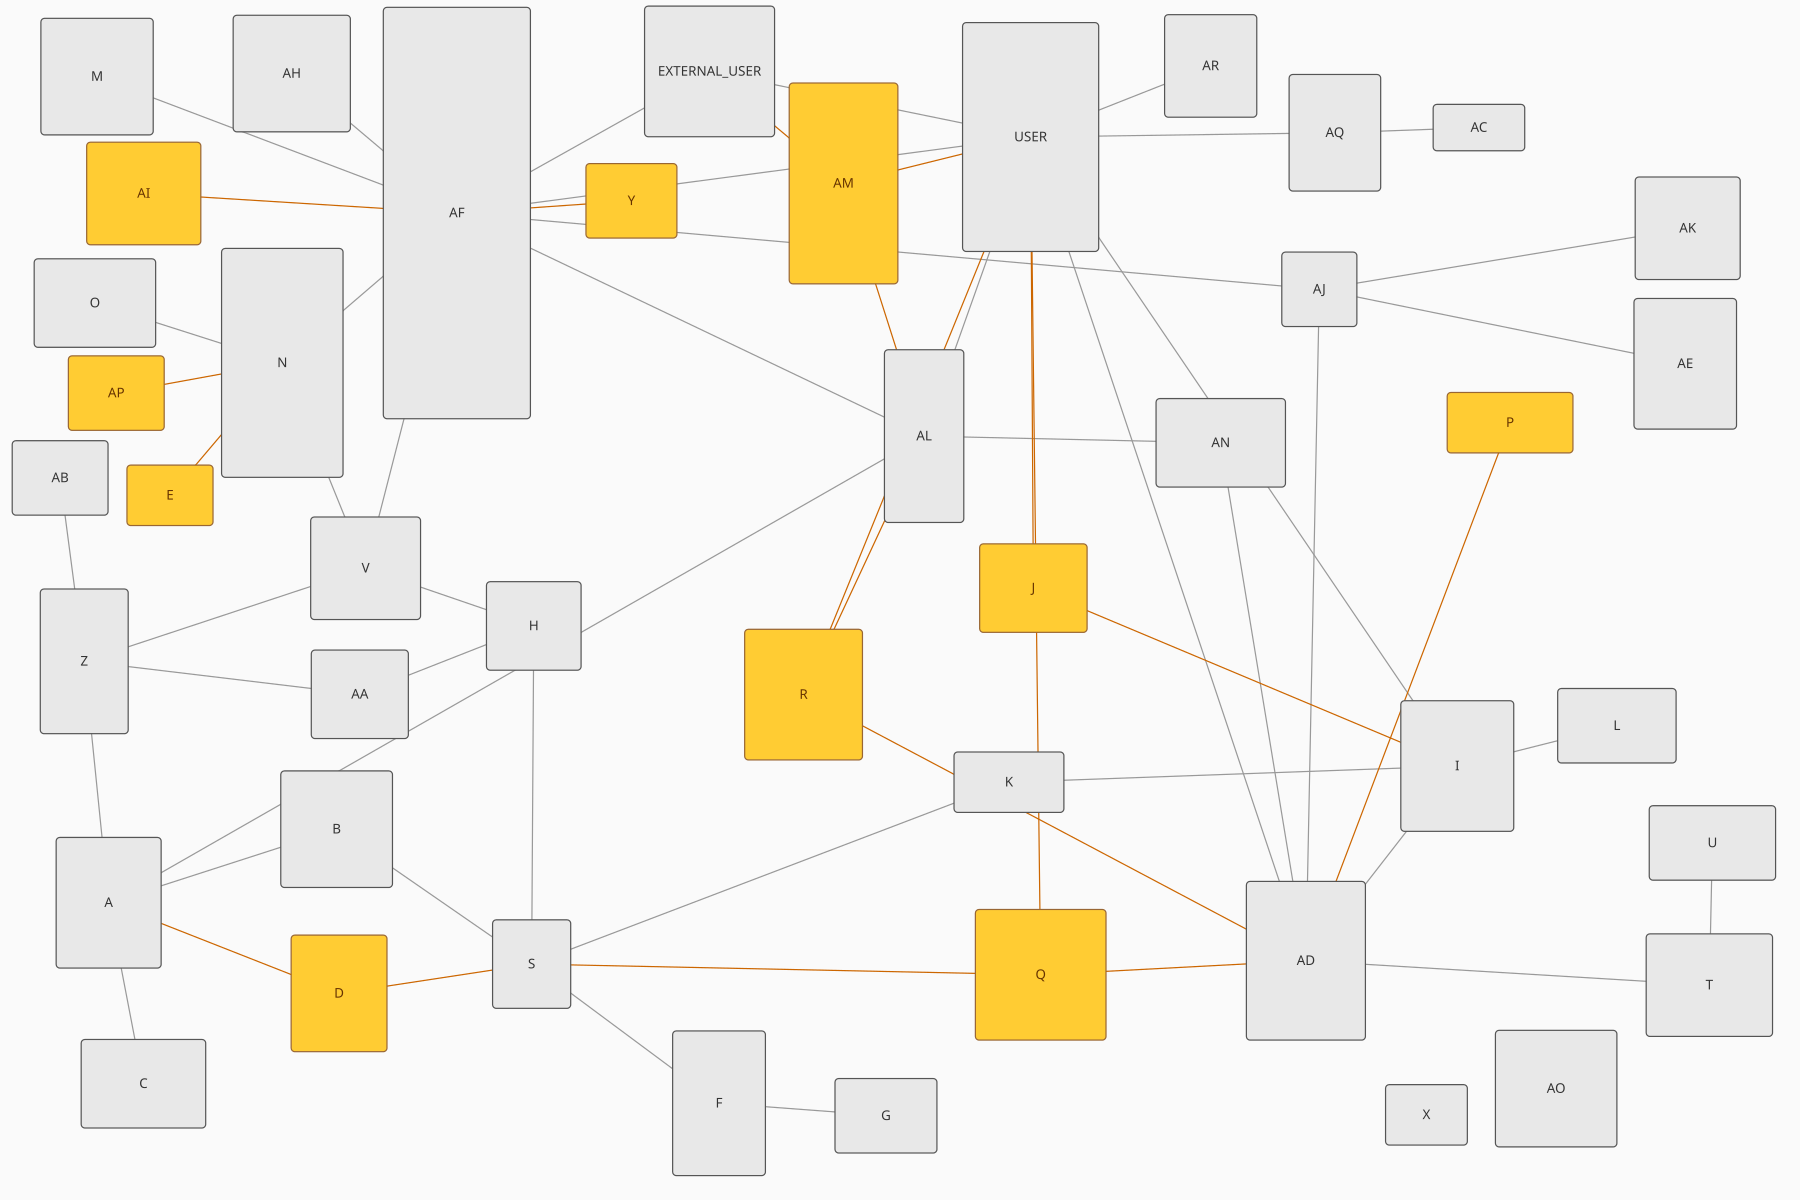
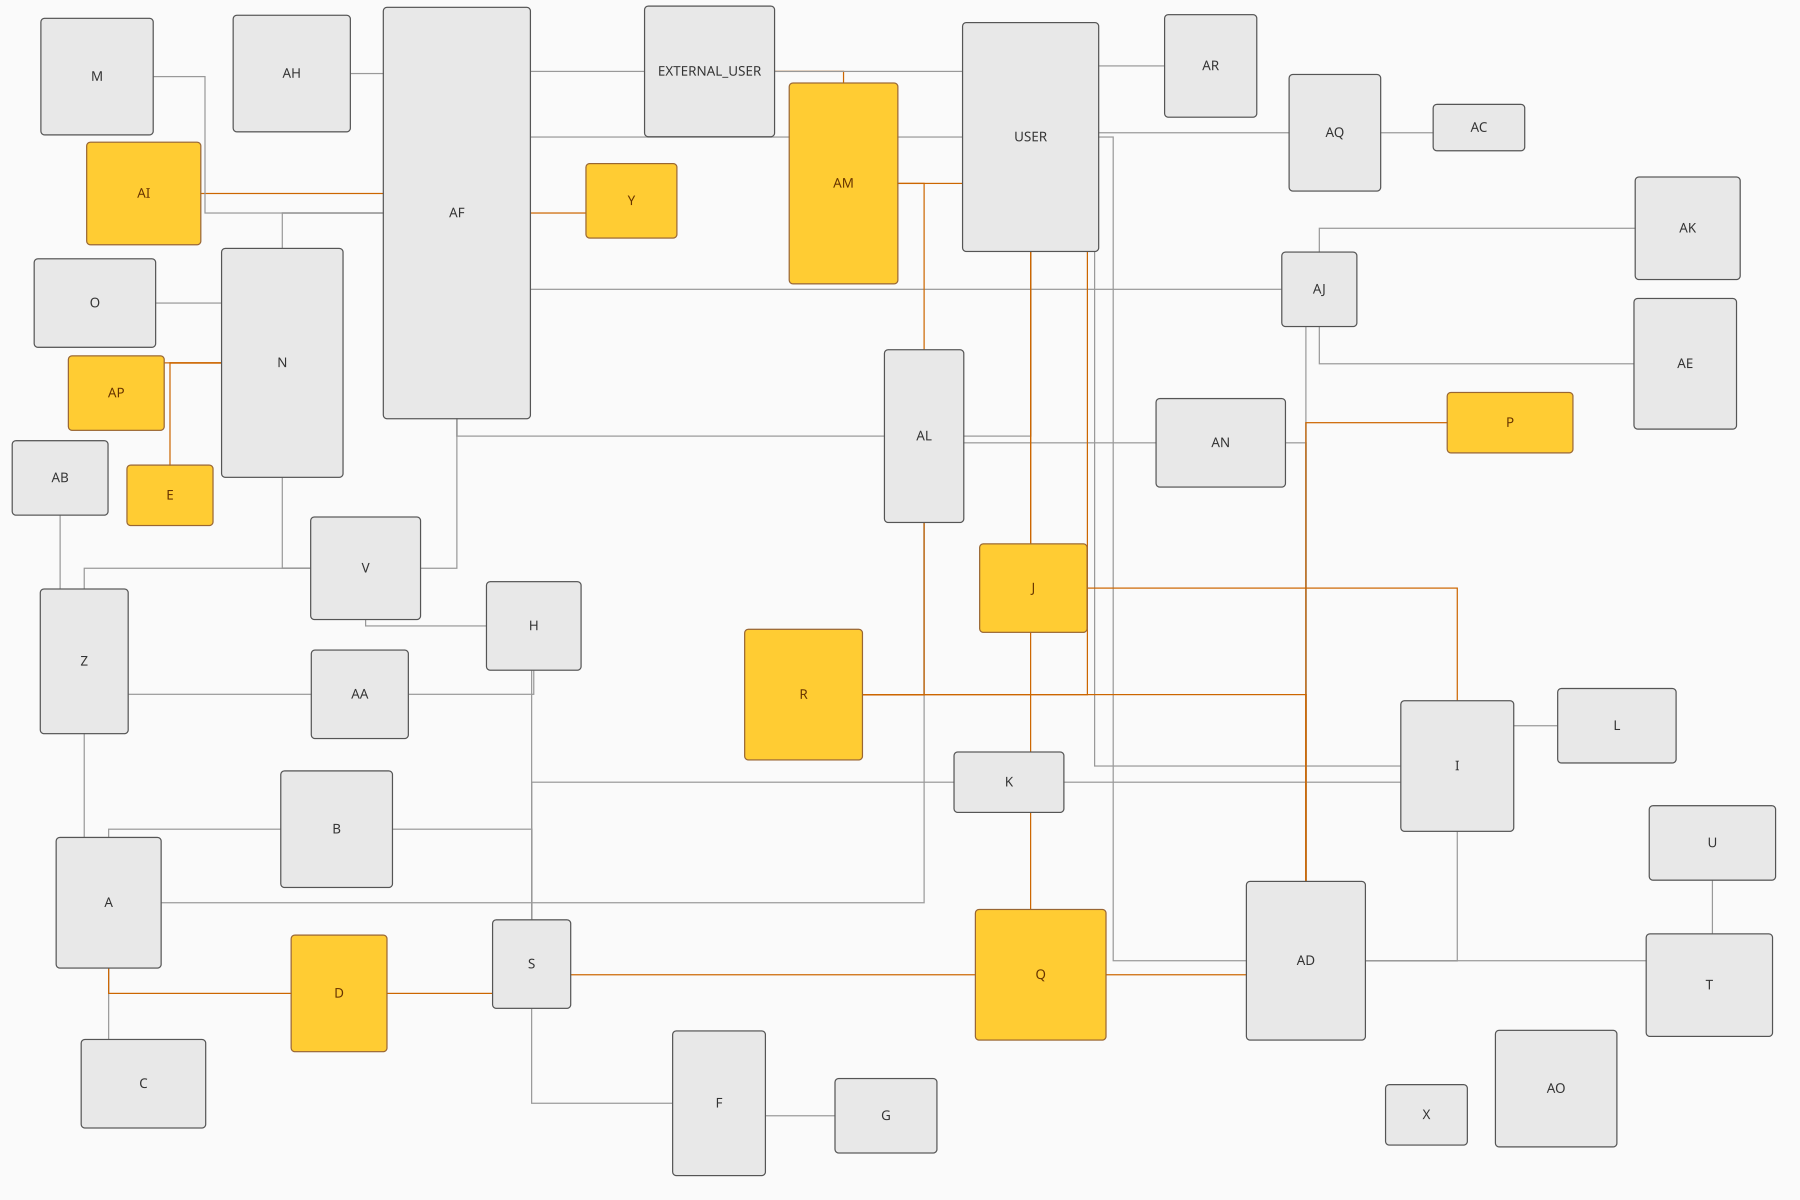
The fixture diagrams route their connectors too
The README's images are the committed data/ PNGs, and their renderer
still drew straight center-to-center lines from before the router
existed; only --svg had learned to route. render.py now routes with the
same rule as erd.c's route_edge, so the pictures show the medium the
objective scores and never a diagonal.

diff --git a/example/erd/data/render.py b/example/erd/data/render.py
@@ -1,6 +1,9 @@
 """Renders ERD.png and ERD_prev.png from graph_anon.json. These images are this renderer's
 work, never a Workbench export -- an export would carry the real names, which is the reason the
-committed pair can exist at all. Same drawing language as the erd example's --svg.
+committed pair can exist at all. The connectors are routed by the same rule as erd.c's
+route_edge (two L shapes, Z shapes sliding across the channel, least penetration wins, length
+breaks ties, earlier shape wins exact ties), so the pictures show orthogonal connectors, the
+medium the objective scores, and never a diagonal.
 
     python3 render.py && rsvg-convert -w 1800 ERD_anon.svg -o ERD.png \
                       && rsvg-convert -w 1800 ERD_prev_anon.svg -o ERD_prev.png
@@ -9,6 +12,52 @@ import json
 
 g = json.load(open('graph_anon.json'))
 added = set(g['added'])
+
+T = [-0.25, 0.15, 0.3, 0.5, 0.7, 0.85, 1.25]
+
+
+def pen_of(pts, figs, skip):
+    """Penetration of an axis-aligned polyline into every table except the endpoints' own,
+    open intervals at the borders, exactly as erd.c's apen computes it."""
+    p = 0.0
+    for n, f in figs.items():
+        if n in skip:
+            continue
+        x0, y0, w, h = f
+        for (x1, y1), (x2, y2) in zip(pts, pts[1:]):
+            if y1 == y2:
+                if y0 < y1 < y0 + h:
+                    lo, hi = max(min(x1, x2), x0), min(max(x1, x2), x0 + w)
+                    if hi > lo:
+                        p += hi - lo
+            else:
+                if x0 < x1 < x0 + w:
+                    lo, hi = max(min(y1, y2), y0), min(max(y1, y2), y0 + h)
+                    if hi > lo:
+                        p += hi - lo
+    return p
+
+
+def route(a, b, figs, cx):
+    (ax, ay), (bx, by) = cx[a], cx[b]
+    cands = [[(ax, ay), (bx, ay), (bx, by)], [(ax, ay), (ax, by), (bx, by)]]
+    for t in T:
+        mx = ax + t * (bx - ax)
+        cands.append([(ax, ay), (mx, ay), (mx, by), (bx, by)])
+    for t in T:
+        my = ay + t * (by - ay)
+        cands.append([(ax, ay), (ax, my), (bx, my), (bx, by)])
+    best, bestcost = None, None
+    for pts in cands:
+        pen = pen_of(pts, figs, {a, b})
+        length = sum(abs(x2 - x1) + abs(y2 - y1)
+                     for (x1, y1), (x2, y2) in zip(pts, pts[1:]))
+        cost = 100.0 * pen + length
+        if bestcost is None or cost < bestcost:
+            best, bestcost = pts, cost
+        if pen == 0:
+            break
+    return best
 
 
 def render(rev, path, mark_added):
@@ -20,10 +69,10 @@ def render(rev, path, mark_added):
            "font-family='sans-serif'>" % (W, H),
            "<rect width='%g' height='%g' fill='#fafafa'/>" % (W, H)]
     for a, b in edges:
-        (ax, ay), (bx, by) = cx[a], cx[b]
         nu = mark_added and (a in added or b in added)
-        out.append("<line x1='%g' y1='%g' x2='%g' y2='%g' stroke='%s' stroke-width='2'/>"
-                   % (ax, ay, bx, by, '#c60' if nu else '#999'))
+        pts = route(a, b, figs, cx)
+        out.append("<polyline points='%s' fill='none' stroke='%s' stroke-width='2'/>"
+                   % (' '.join('%g,%g' % p for p in pts), '#c60' if nu else '#999'))
     for n, f in figs.items():
         nu = mark_added and n in added
         out.append("<rect x='%g' y='%g' width='%g' height='%g' rx='6' fill='%s' "
